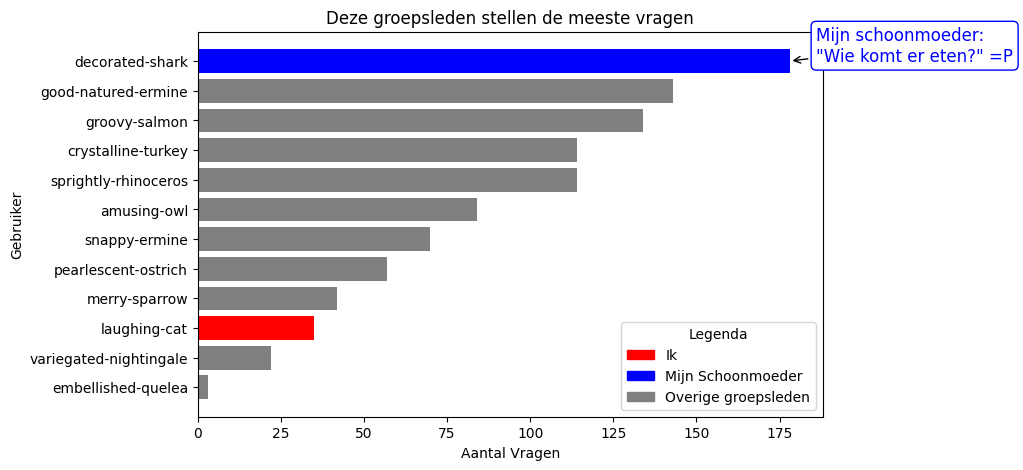
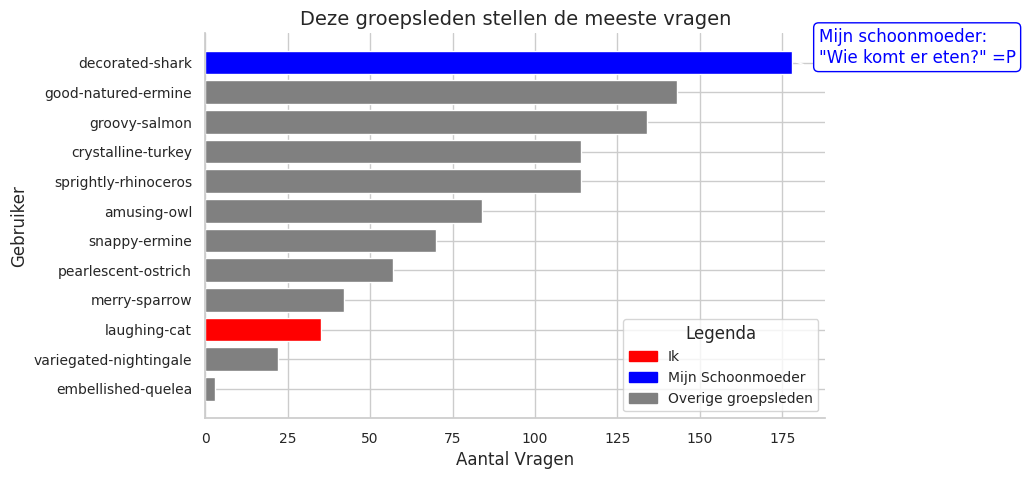
add global plot settings and add to les2

diff --git a/src/les2.py b/src/les2.py
@@ -1,84 +1,64 @@
 from pathlib import Path
-
-import matplotlib.patches as mpatches
-import matplotlib.pyplot as plt
 import pandas as pd
 from loguru import logger
+from plot_settings import set_plot_style
+from plot_utils import plot_horizontal_bar
 
+def generate_question_bar_chart(df: pd.DataFrame, img_folder: Path, les2_settings: dict):
+    """
+    Genereer een bar chart van aantal vragen per gebruiker, volledig gestuurd door settings.
+    """
 
-def generate_question_bar_chart(
-    df: pd.DataFrame, img_folder: Path, les2_settings: dict
-):
-    """
-    Genereer een horizontale staafgrafiek van het aantal vragen per gebruiker.
-    Gebruikt settings voor kleuring, annotatie en bestandsnaam.
-    """
+    set_plot_style()
+
     if df.empty:
         logger.warning("Dataframe is leeg. Kan geen grafiek genereren.")
         return
 
-    # Kolomnamen
     col_author = les2_settings["columns"]["author"]
     col_message = les2_settings["columns"]["message"]
 
     # Vragen tellen
     df["questions"] = df[col_message].apply(lambda x: str(x).count("?"))
-    vraag_count = df.groupby(col_author)["questions"].sum().reset_index()
-    vraag_count = vraag_count.sort_values(by="questions", ascending=False)
+    vraag_count = (
+        df.groupby(col_author)["questions"]
+        .sum()
+        .reset_index()
+        .sort_values(by="questions", ascending=False)
+    )
     vraag_count = vraag_count[vraag_count["questions"] > 0]
 
-    # Kleuren per gebruiker
+    if vraag_count.empty:
+        logger.warning("Geen vragen gevonden om te plotten.")
+        return
+
+    # Kleuren per persoon
+    colors_config = les2_settings["plot"]["colors"]
     me = les2_settings["highlight_users"]["me"]
     inlaw = les2_settings["highlight_users"]["inlaw"]
 
     colors = [
-        "red" if author == me else "blue" if author == inlaw else "grey"
+        colors_config["me"] if author == me else
+        colors_config["inlaw"] if author == inlaw else
+        colors_config["other"]
         for author in vraag_count[col_author]
     ]
 
+    output_path = img_folder / les2_settings["output_image"]
+
     # Plot
-    plt.figure(figsize=(10, 5))
-    plt.barh(vraag_count[col_author], vraag_count["questions"], color=colors)
-    plt.xlabel("Aantal Vragen")
-    plt.ylabel("Gebruiker")
-    plt.title("Deze groepsleden stellen de meeste vragen")
-    plt.gca().invert_yaxis()
-
-    # Annotatie voor inlaw
-    annotation_user = les2_settings["annotation"]["user"]
-    annotation_text = les2_settings["annotation"]["text"]
-
-    if annotation_user in vraag_count[col_author].values:
-        y_pos = list(vraag_count[col_author]).index(annotation_user)
-        x_value = vraag_count["questions"].iloc[y_pos]
-
-        plt.xlim(right=x_value + 10)
-        plt.annotate(
-            annotation_text,
-            xy=(x_value, y_pos),
-            xytext=(x_value + 8, y_pos),
-            arrowprops=dict(facecolor="blue", arrowstyle="->"),
-            fontsize=12,
-            color="blue",
-            bbox=dict(boxstyle="round,pad=0.3", edgecolor="blue", facecolor="white"),
-        )
-
-    # Legenda
-    plt.subplots_adjust(right=0.75)
-    legend_handles = [
-        mpatches.Patch(color="red", label="Ik"),
-        mpatches.Patch(color="blue", label="Mijn Schoonmoeder"),
-        mpatches.Patch(color="grey", label="Overige groepsleden"),
-    ]
-    plt.legend(
-        handles=legend_handles,
-        title="Legenda",
-        loc="lower right",
-        bbox_to_anchor=(1, 0),
+    plot_horizontal_bar(
+        vraag_count,
+        value_col="questions",
+        label_col=col_author,
+        colors=colors,
+        xlabel=les2_settings["plot"]["xlabel"],
+        ylabel=les2_settings["plot"]["ylabel"],
+        title=les2_settings["plot"]["title"],
+        annotation=les2_settings["annotation"],
+        legend_labels=les2_settings["plot"]["legend_labels"],
+        legend_colors=les2_settings["plot"]["colors"],
+        output_path=output_path,
     )
 
-    # Opslaan
-    output_path = img_folder / les2_settings["output_image"]
-    plt.savefig(output_path, bbox_inches="tight")
-    plt.close()
-    logger.info(f"Afbeelding opgeslagen als: {output_path}")
+    logger.success(f"Afbeelding opgeslagen als: {output_path}")

diff --git a/src/plot_utils.py b/src/plot_utils.py
@@ -1,0 +1,68 @@
+from matplotlib import pyplot as plt
+import matplotlib.patches as mpatches
+
+def plot_horizontal_bar(
+    data,
+    value_col,
+    label_col,
+    colors,
+    xlabel,
+    ylabel,
+    title,
+    annotation=None,
+    legend_labels=None,
+    output_path=None,
+    legend_colors=None,  # <-- Extra toegevoegd
+):
+    """
+    Plot een horizontale staafdiagram met optionele annotatie en legenda.
+    """
+    plt.figure()
+
+    # Plot de staafdiagram
+    plt.barh(data[label_col], data[value_col], color=colors)
+    plt.xlabel(xlabel)
+    plt.ylabel(ylabel)
+    plt.title(title)
+    plt.gca().invert_yaxis()
+
+    # Annotatie toevoegen (optioneel)
+    if annotation:
+        user = annotation.get("user")
+        text = annotation.get("text")
+        color = annotation.get("arrow_color", "blue")
+
+        if user in data[label_col].values:
+            y_pos = list(data[label_col]).index(user)
+            x_value = data[value_col].iloc[y_pos]
+
+            plt.xlim(right=x_value + 10)
+            plt.annotate(
+                text,
+                xy=(x_value, y_pos),
+                xytext=(x_value + 8, y_pos),
+                arrowprops=dict(facecolor=color, arrowstyle="->"),
+                fontsize=12,
+                color=color,
+                bbox=dict(boxstyle="round,pad=0.3", edgecolor=color, facecolor="white"),
+            )
+
+    # Legenda toevoegen (optioneel)
+    if legend_labels and legend_colors:
+        legend_handles = [
+            mpatches.Patch(color=legend_colors[key], label=label)
+            for key, label in legend_labels.items()
+        ]
+        plt.legend(
+            handles=legend_handles,
+            title="Legenda",
+            loc="lower right",
+            bbox_to_anchor=(1, 0),
+        )
+
+    # Opslaan of tonen
+    if output_path:
+        plt.savefig(output_path, bbox_inches="tight")
+        plt.close()
+    else:
+        plt.show()

diff --git a/src/plot_settings.py b/src/plot_settings.py
@@ -1,0 +1,45 @@
+from pathlib import Path
+import tomllib
+import matplotlib.pyplot as plt
+import seaborn as sns
+from pydantic import BaseModel
+
+class PlotSettings(BaseModel):
+    style: str
+    context: str
+    palette: str
+    figsize: tuple
+    title_size: int
+    label_size: int
+    tick_size: int
+    legend_size: int
+
+    @classmethod
+    def load_from_toml(cls, path: Path):
+        with path.open("rb") as f:
+            data = tomllib.load(f)
+        return cls(**data["plot"])  # Zorg dat je in settings.toml een [plot] blok hebt!
+
+def set_plot_style(settings: PlotSettings = None):
+    """
+    Zet de standaardstijl voor alle plots.
+    """
+    if settings is None:
+        settings = PlotSettings.load_from_toml(Path("./settings.toml"))
+
+    sns.set_theme(
+        style=settings.style,
+        context=settings.context,
+        palette=settings.palette,
+    )
+
+    plt.rcParams.update({
+        "figure.figsize": settings.figsize,
+        "axes.titlesize": settings.title_size,
+        "axes.labelsize": settings.label_size,
+        "xtick.labelsize": settings.tick_size,
+        "ytick.labelsize": settings.tick_size,
+        "legend.fontsize": settings.legend_size,
+        "axes.spines.top": False,
+        "axes.spines.right": False,
+    })
